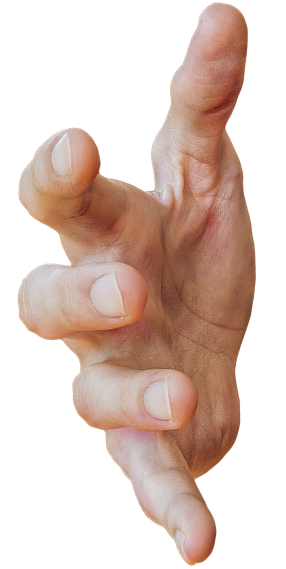
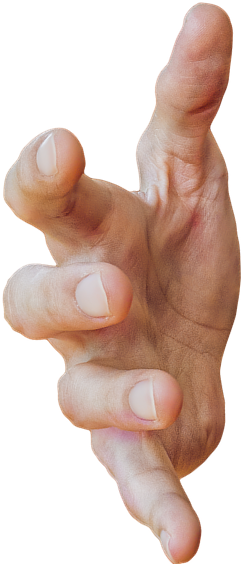
Ad grabby moving mechanics

diff --git a/blahajIkea.py b/blahajIkea.py
@@ -1,5 +1,5 @@
 ### blahaj at ikea game
-
+import math
 import random
 import pygame
 import time
@@ -33,6 +33,9 @@ power_blahaj_height = 110
 
 power_up_width = 50
 power_up_height = 38
+
+grabby_width = 43
+grabby_height = 100
 
 meatball_size = 30
 
@@ -106,6 +109,11 @@ def load_images():
     power_blahaj_Img = pygame.image.load('images/characters/Powerup.png')
     power_blahaj_Img = pygame.transform.scale(power_blahaj_Img, (power_blahaj_width, power_blahaj_height))
 
+    # grabby
+    global grabby_Img
+    grabby_Img = pygame.image.load('images/characters/GrabbyHand.png')
+    grabby_Img = pygame.transform.scale(grabby_Img, (grabby_width, grabby_height))
+
     # points and powerups
     global meatball_Img
     meatball_Img = pygame.image.load('images/characters/meatball1.png')
@@ -115,7 +123,7 @@ def load_images():
     powerup_item_Img = pygame.image.load('images/characters/PowerupIcon.png')
     powerup_item_Img = pygame.transform.scale(powerup_item_Img, (power_up_width, power_up_height))
 
-    # add images
+    # add level images
     for level in range(0, total_levels):
         bg_imgs.append(pygame.image.load(bg_img_paths[level]))
         bg_imgs[level] = pygame.transform.scale(bg_imgs[level],
@@ -249,6 +257,12 @@ def game_loop():
     powerup_min_time = 500
     powerup_max_time = 1000
 
+    grabby_lunge_min_time = 270
+    grabby_lunge_max_time = 390
+
+    grabby_forward_mim_time = 50
+    grabby_forward_max_time = 90
+
     point_min_time = 100
     point_max_time = 400
 
@@ -271,8 +285,22 @@ def game_loop():
     y_change_blahaj = 0
 
     ## calculate starting position for the grabby hand (to be modified)
-    grabby_postY = 0
     grabby_posX = 0
+    grabby_posY = int(display_height * 0.425) - (grabby_height - blahaj_height)/2
+
+    # for grabby to lunge
+    grabby_lunge_wait = random.randint(grabby_lunge_min_time, grabby_lunge_max_time)
+    grabby_lunge_next = 0
+    grabby_lunge_now = False
+    grabby_lunge_timer = 10
+
+    grabby_speed = 3
+
+    # to allow grabby to move foward else drift backwards
+    grabby_forward_timer = 10
+    grabby_forward_next = 0
+    grabby_forward_wait = random.randint(grabby_forward_mim_time, grabby_forward_max_time)
+    grabby_forward_now = False
 
     ############################################################################
 
@@ -331,6 +359,8 @@ def game_loop():
 
     boost_meter = 100
     boost_change = 2
+    boost_drop_count = 0
+    boost_refill = False
 
     gameOver = False
     win = False
@@ -383,7 +413,7 @@ def game_loop():
             x_change_blahaj = step_back
 
         if x_change_blahaj < 0:
-            if blahaj_posX > 100:
+            if blahaj_posX > 0:
                 blahaj_posX += x_change_blahaj
         else:
             if blahaj_posX < 930:
@@ -396,10 +426,20 @@ def game_loop():
             if blahaj_posY < 590:
                 blahaj_posY += y_change_blahaj
 
-
         ###################################################
 
         # update boost position
+        if collision_proof > 0:
+            boost_drop_count += 1
+
+        if boost_drop_count > 5:
+            boost_drop_count = 0
+            boost_change -= 1
+
+        if boost_refill:
+            boost_change += 10
+            boost_refill = False
+
         boost_meter += boost_change
         if boost_meter > 100:
             boost_meter = 100
@@ -498,7 +538,77 @@ def game_loop():
                 next_point_count = 0
                 point_item_onScreen = False
                 score += 100
+                boost_refill = True
                 # print("point collected")
+
+        ###################################################
+
+        ## update grabby position
+        # lunge timer countdown
+        if grabby_lunge_now:
+            grabby_lunge_timer -= 1
+
+        if grabby_lunge_timer == 0:
+            grabby_lunge_now = False
+
+        # check if lunge
+        grabby_lunge_next += 1
+        if grabby_lunge_next == grabby_lunge_wait:
+            grabby_lunge_next = 0
+            grabby_lunge_wait = random.randint(grabby_lunge_min_time, grabby_lunge_max_time)
+            grabby_lunge_now = True
+            grabby_lunge_timer = random.randint(22, 33)
+
+        # fowward timer countdown
+        if grabby_forward_now:
+            grabby_forward_timer -= 1
+
+        if grabby_forward_timer == 0:
+            grabby_forward_now = False
+
+        # check if forward
+        grabby_forward_next += 1
+        if grabby_forward_next == grabby_forward_wait:
+            grabby_forward_next = 0
+            grabby_forward_wait = random.randint(grabby_forward_mim_time, grabby_forward_max_time)
+            grabby_forward_now = True
+            grabby_forward_timer = random.randint(18, 25)
+
+        # calculate distance between blahaj and grabby
+        grabby_center_coords = [grabby_posX + grabby_width * 0.5, grabby_posY + grabby_height * 0.5]
+        blahaj_center_coords = [blahaj_posX + blahaj_width * 0.5, blahaj_posY + blahaj_height * 0.5]
+        dist_from_grabby = math.sqrt((grabby_center_coords[0]-blahaj_center_coords[0])**2 +
+                                     (grabby_center_coords[1]-blahaj_center_coords[1])**2)
+
+        grabby_speed = 7 if grabby_lunge_now else 3
+
+        if dist_from_grabby == 0:
+            scaled_dist_ratio = 1
+        else:
+            scaled_dist_ratio = grabby_speed / dist_from_grabby
+
+        if grabby_forward_now or grabby_lunge_now:
+            grabby_posX += scaled_dist_ratio * (blahaj_center_coords[0] - grabby_center_coords[0])
+        else:
+            grabby_posX -= 2 # drift backwards
+
+        grabby_posY += scaled_dist_ratio * (blahaj_center_coords[1] - grabby_center_coords[1])
+
+        if grabby_posX < 0:
+            grabby_posX = 0
+
+
+        # check grabby collisions
+        if damagable \
+                and not top_obstacle_posY + top_height[level] < blahaj_posY + 10 \
+                and not top_obstacle_posY > blahaj_posY + blahaj_height - 20 \
+                and not top_obstacle_posX + top_width[level] < blahaj_posX + 10\
+                and not top_obstacle_posX > blahaj_posX + blahaj_width - 10:
+            # gameOver = True
+            # win = False
+            # play lose sound
+            score -= 100
+
 
         ###################################################
 
@@ -569,7 +679,7 @@ def game_loop():
         # if lose condition end the gameloop
 
 
-        if not win:
+        if not gameOver:
 
             # note item rendered first get rendered in behind
 
@@ -584,6 +694,8 @@ def game_loop():
                         (collision_proof > 0 and
                          (collision_proof % 5 == 0 or collision_proof % 5 == 1)):
                     gameDisplay.blit(blahaj_Img, (blahaj_posX, blahaj_posY))
+
+            gameDisplay.blit(grabby_Img, (grabby_posX, grabby_posY))
 
             # render point and powerup objects
             if point_item_onScreen:
@@ -612,6 +724,14 @@ def game_loop():
             scoreRender(score)
             damagable_indicator_render(collision_proof, invincibility, damagable)
             dist_travel_bar(dist_travelled)
+
+        else:
+            if win:
+                # show win screen
+                pass
+            else:
+                # show lose
+                pass
 
         pygame.display.update()
         clock.tick(60)
